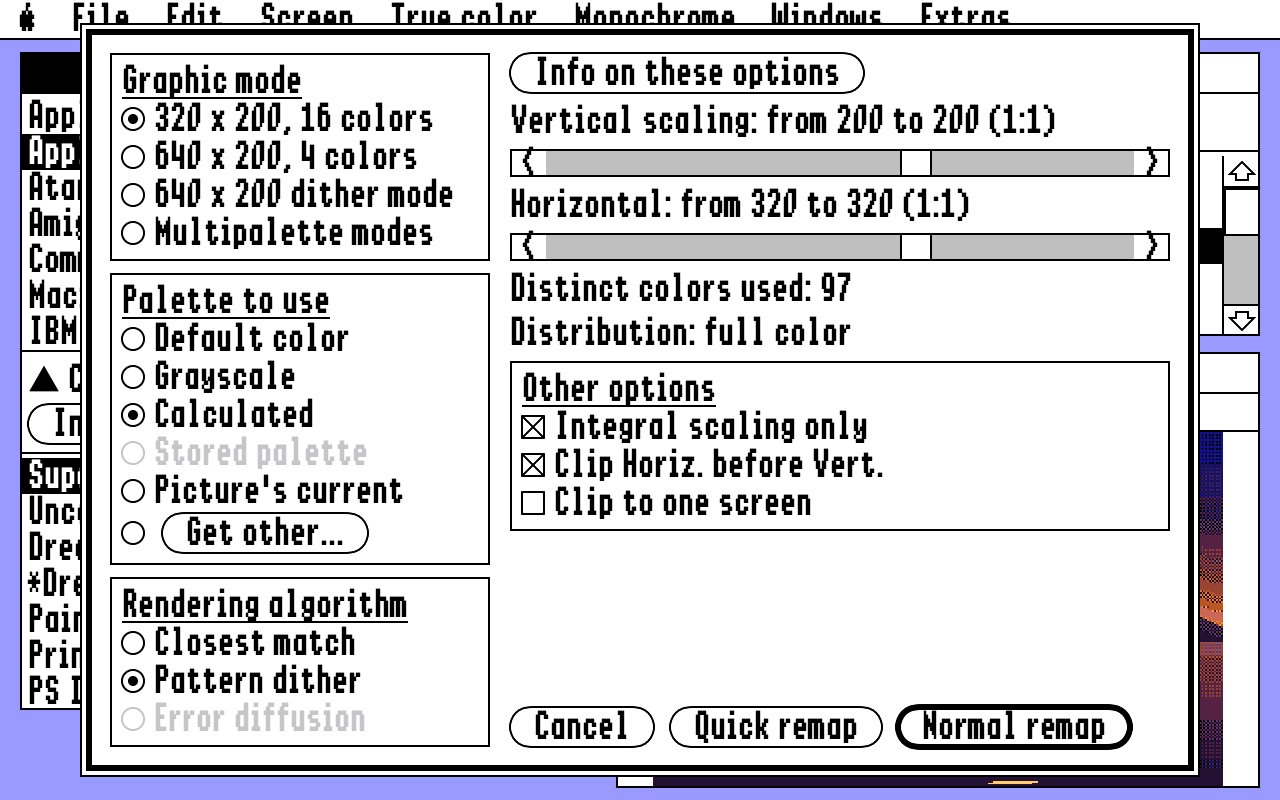
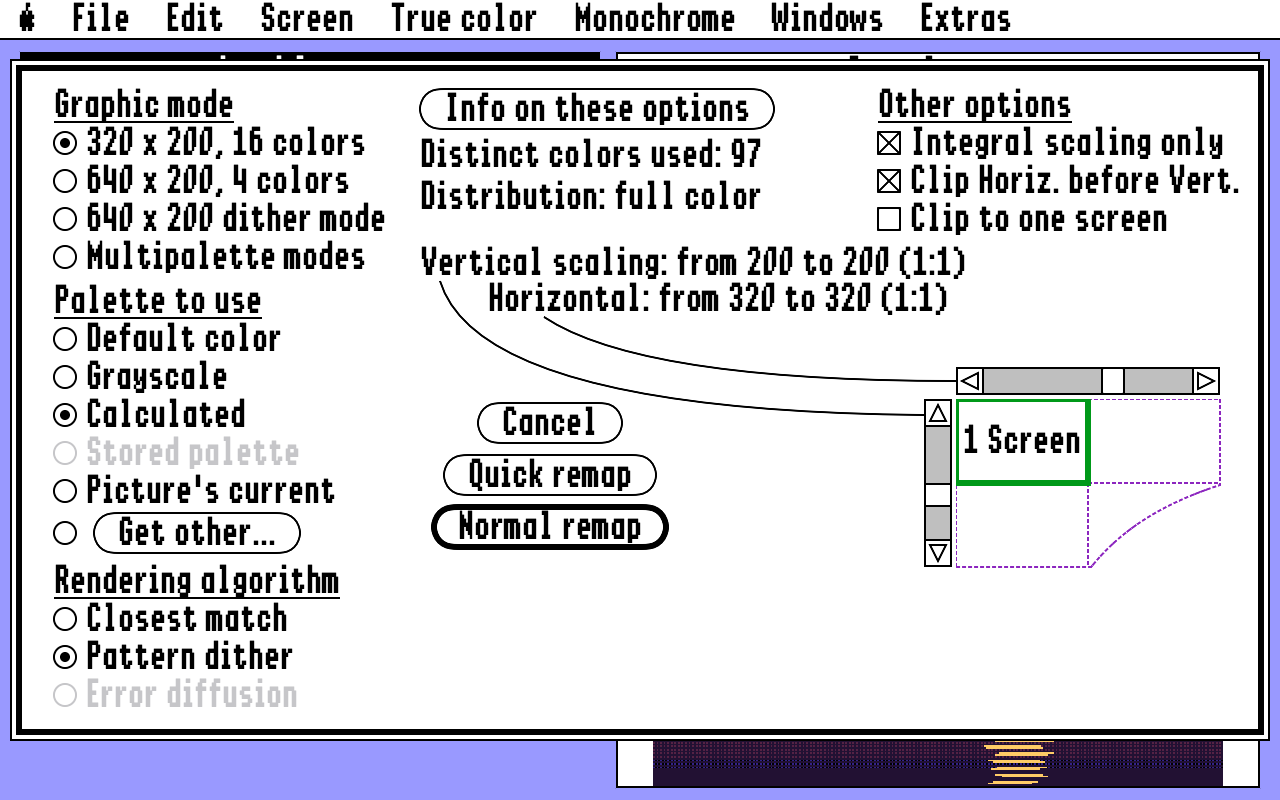
Remap dialog: live size diagram with scroll bars, as in the original
The diagram shows the resulting picture against a grid of screens, with
the 64K limit as a curve and the clipped size as a thick outline.
Pictures are now limited to two screens each way. Screenshots updated.

diff --git a/App/RemapDialog.swift b/App/RemapDialog.swift
@@ -12,121 +12,238 @@ struct RemapDialog: View {
     var body: some View {
         let sizes = model.outputSize()
         let natural = model.trueColor.map { Remapper.naturalSize(of: $0, mode: model.settings.mode) } ?? (0, 0)
+        let screenWidth = Double(model.screenWidth)
         GSDialog {
             HStack(alignment: .top, spacing: 10) {
-                VStack(spacing: 6) {
-                    GSGroup(title: "Graphic mode") {
-                        ForEach(GraphicMode.allCases, id: \.rawValue) { mode in
-                            GSRadio(title: mode.title, selected: model.settings.mode == mode) {
-                                model.settings.mode = mode
-                                model.normalise()
-                                model.fitScaleToScreen()
-                            }
-                        }
-                    }
-                    GSGroup(title: "Palette to use") {
-                        ForEach(PaletteChoice.allCases, id: \.rawValue) { choice in
-                            if choice == .other {
-                                HStack(spacing: 4) {
-                                    GSRadio(title: "", selected: model.settings.palette == .other) {
-                                        model.settings.palette = .other
-                                        model.normalise()
-                                    }
-                                    Button("Get other...") { model.overlay = .getOther }
-                                        .buttonStyle(GSButtonStyle())
-                                }
-                            } else {
-                                GSRadio(title: choice.title, selected: model.settings.palette == choice,
-                                        enabled: model.prototype(for: choice) != nil) {
-                                    model.settings.palette = choice
-                                    model.normalise()
-                                }
-                            }
-                        }
-                    }
-                    GSGroup(title: "Rendering algorithm") {
-                        ForEach(RenderAlgorithm.allCases, id: \.rawValue) { algorithm in
-                            GSRadio(title: algorithm.title, selected: model.settings.algorithm == algorithm,
-                                    enabled: algorithm != .errorDiffusion || model.errorDiffusionAllowed) {
-                                model.settings.algorithm = algorithm
-                            }
-                        }
-                    }
-                }
-                .frame(width: 190)
+                choicesColumn.frame(width: 180)
 
                 VStack(alignment: .leading, spacing: 6) {
-                    Button("Info on these options") {
-                        model.overlay = .info("Remap options", """
-                            Graphic mode picks the IIgs screen mode of the result.
-                            Palette to use picks its colors; Calculated finds the best ones for this picture.
-                            Pattern dither mixes palette colors in small patterns; Error diffusion is \
-                            offered for grayscale and black & white palettes.
-                            Quick remap ignores every option and gives a one-screen preview.
-                            """)
+                    HStack(alignment: .top, spacing: 8) {
+                        VStack(alignment: .leading, spacing: 5) {
+                            Button("Info on these options") {
+                                model.overlay = .info("Remap options", """
+                                    Graphic mode picks the IIgs screen mode of the result. Palette to use picks \
+                                    its colors; Calculated finds the best ones for this picture.
+                                    The two scroll bars set the scaling. The diagram shows the result against \
+                                    a grid of screens: the curve is the 64K size limit, the thin outline is the \
+                                    size you asked for and the thick one is what you get.
+                                    Quick remap ignores every option and gives a one-screen preview.
+                                    """)
+                            }
+                            .buttonStyle(GSButtonStyle())
+                            Group {
+                                if let s = model.statistics {
+                                    Text("Distinct colors used: \(s.distinct)")
+                                    Text("Distribution: \(model.distribution(s))")
+                                } else {
+                                    Text("Counting colors...")
+                                }
+                            }
+                            .font(GS.font).foregroundColor(.black).lineLimit(1)
+                        }
+                        Spacer(minLength: 0)
+                        VStack(alignment: .leading, spacing: 3) {
+                            Text("Other options").font(GS.font).foregroundColor(.black).underline()
+                            GSCheckbox(title: "Integral scaling only", isOn: $model.settings.integral)
+                            GSCheckbox(title: "Clip Horiz. before Vert.", isOn: $model.settings.clipHorizFirst)
+                            GSCheckbox(title: "Clip to one screen", isOn: $model.settings.clipOneScreen)
+                        }
                     }
-                    .buttonStyle(GSButtonStyle())
 
-                    Group {
+                    // Scaling: text, scroll bars and the size diagram, laid out as in the original.
+                    ZStack(alignment: .topLeading) {
                         Text("Vertical scaling: from \(natural.1) to \(sizes.wanted.1) (\(ratio(model.settings.vStep)))")
-                        scaleSlider($model.settings.vStep)
+                            .font(GS.font).foregroundColor(.black).lineLimit(1)
                         Text("Horizontal: from \(natural.0) to \(sizes.wanted.0) (\(ratio(model.settings.hStep)))")
-                        scaleSlider($model.settings.hStep)
+                            .font(GS.font).foregroundColor(.black).lineLimit(1)
+                            .offset(x: 34, y: 18)
+                        // Leader lines from each line of text to its scroll bar.
+                        Path { p in
+                            p.move(to: CGPoint(x: 10, y: 17))
+                            p.addQuadCurve(to: CGPoint(x: Self.gridX - 16, y: Self.gridY + 8),
+                                           control: CGPoint(x: 30, y: Self.gridY + 6))
+                            p.move(to: CGPoint(x: 62, y: 35))
+                            p.addQuadCurve(to: CGPoint(x: Self.gridX, y: Self.gridY - 9),
+                                           control: CGPoint(x: 110, y: Self.gridY - 9))
+                        }
+                        .stroke(Color.black, lineWidth: 1)
+                        VStack(spacing: 6) {
+                            Button("Cancel") { model.overlay = nil }.buttonStyle(GSButtonStyle())
+                            Button("Quick remap") { model.runRemap(quick: true) }.buttonStyle(GSButtonStyle())
+                            Button("Normal remap") { model.runRemap(quick: false) }
+                                .buttonStyle(GSButtonStyle(isDefault: true))
+                                .keyboardShortcut(.defaultAction)
+                        }
+                        .frame(width: 130)
+                        .offset(x: 0, y: 78)
+                        ScaleBar(step: $model.settings.hStep, vertical: false)
+                            .frame(width: SizeDiagram.size.width, height: 14)
+                            .offset(x: Self.gridX, y: Self.gridY - 16)
+                        ScaleBar(step: $model.settings.vStep, vertical: true)
+                            .frame(width: 14, height: SizeDiagram.size.height)
+                            .offset(x: Self.gridX - 16, y: Self.gridY)
+                        SizeDiagram(wanted: CGSize(width: Double(sizes.wanted.0) / screenWidth,
+                                                   height: Double(sizes.wanted.1) / 200),
+                                    result: CGSize(width: Double(sizes.clipped.0) / screenWidth,
+                                                   height: Double(sizes.clipped.1) / 200))
+                            .offset(x: Self.gridX, y: Self.gridY)
                         if sizes.clipped != sizes.wanted {
                             Text("Clipped to \(sizes.clipped.0) x \(sizes.clipped.1)")
-                        }
-                        if let s = model.statistics {
-                            Text("Distinct colors used: \(s.distinct)")
-                            Text("Distribution: \(model.distribution(s))")
-                        } else {
-                            Text("Counting colors...")
+                                .font(GS.font).foregroundColor(.black).lineLimit(1)
+                                .offset(x: 0, y: Self.gridY + SizeDiagram.size.height + 4)
                         }
                     }
-                    .font(GS.font)
-                    .foregroundColor(.black)
-
-                    GSGroup(title: "Other options") {
-                        GSCheckbox(title: "Integral scaling only", isOn: $model.settings.integral)
-                        GSCheckbox(title: "Clip Horiz. before Vert.", isOn: $model.settings.clipHorizFirst)
-                        GSCheckbox(title: "Clip to one screen", isOn: $model.settings.clipOneScreen)
-                    }
-                    Spacer(minLength: 0)
-                    HStack(spacing: 8) {
-                        Button("Cancel") { model.overlay = nil }.buttonStyle(GSButtonStyle())
-                        Button("Quick remap") { model.runRemap(quick: true) }.buttonStyle(GSButtonStyle())
-                        Button("Normal remap") { model.runRemap(quick: false) }
-                            .buttonStyle(GSButtonStyle(isDefault: true))
-                            .keyboardShortcut(.defaultAction)
-                    }
+                    .frame(width: 410, height: Self.gridY + SizeDiagram.size.height + 24, alignment: .topLeading)
                 }
-                .frame(width: 330, alignment: .leading)
+                .frame(width: 410, alignment: .leading)
             }
         }
         .fixedSize()
     }
 
-    /// Stand-in for the original's scroll bars: arrows step through the scale ratios.
-    private func scaleSlider(_ step: Binding<Int>) -> some View {
-        HStack(spacing: 0) {
-            Button("<") { step.wrappedValue = max(0, step.wrappedValue - 1) }.buttonStyle(.plain).frame(width: 18)
-            GeometryReader { geo in
-                ZStack(alignment: .leading) {
-                    Rectangle().fill(Color(white: 0.75))
-                    Rectangle().fill(Color.white).border(Color.black, width: 1).frame(width: 16)
-                        .offset(x: (geo.size.width - 16) * CGFloat(step.wrappedValue) / CGFloat(scaleSteps.count - 1))
+    private static let gridX: CGFloat = 268, gridY: CGFloat = 76
+
+    private var choicesColumn: some View {
+        VStack(alignment: .leading, spacing: 6) {
+            VStack(alignment: .leading, spacing: 3) {
+                Text("Graphic mode").font(GS.font).foregroundColor(.black).underline()
+                ForEach(GraphicMode.allCases, id: \.rawValue) { mode in
+                    GSRadio(title: mode.title, selected: model.settings.mode == mode) {
+                        model.settings.mode = mode
+                        model.normalise()
+                        model.fitScaleToScreen()
+                    }
                 }
-                .contentShape(Rectangle())
-                .gesture(DragGesture(minimumDistance: 0).onChanged { value in
-                    let f = min(1, max(0, value.location.x / geo.size.width))
-                    step.wrappedValue = Int((f * CGFloat(scaleSteps.count - 1)).rounded())
-                })
             }
-            Button(">") { step.wrappedValue = min(scaleSteps.count - 1, step.wrappedValue + 1) }
-                .buttonStyle(.plain).frame(width: 18)
+            VStack(alignment: .leading, spacing: 3) {
+                Text("Palette to use").font(GS.font).foregroundColor(.black).underline()
+                ForEach(PaletteChoice.allCases, id: \.rawValue) { choice in
+                    if choice == .other {
+                        HStack(spacing: 4) {
+                            GSRadio(title: "", selected: model.settings.palette == .other) {
+                                model.settings.palette = .other
+                                model.normalise()
+                            }
+                            Button("Get other...") { model.overlay = .getOther }.buttonStyle(GSButtonStyle())
+                        }
+                    } else {
+                        GSRadio(title: choice.title, selected: model.settings.palette == choice,
+                                enabled: model.prototype(for: choice) != nil) {
+                            model.settings.palette = choice
+                            model.normalise()
+                        }
+                    }
+                }
+            }
+            VStack(alignment: .leading, spacing: 3) {
+                Text("Rendering algorithm").font(GS.font).foregroundColor(.black).underline()
+                ForEach(RenderAlgorithm.allCases, id: \.rawValue) { algorithm in
+                    GSRadio(title: algorithm.title, selected: model.settings.algorithm == algorithm,
+                            enabled: algorithm != .errorDiffusion || model.errorDiffusionAllowed) {
+                        model.settings.algorithm = algorithm
+                    }
+                }
+            }
         }
-        .font(GS.font)
-        .frame(height: 14)
+    }
+}
+
+/// A IIgs scroll bar used as a stepped control: one position per scaling ratio.
+private struct ScaleBar: View {
+    @Binding var step: Int
+    let vertical: Bool
+    private var last: Int { scaleSteps.count - 1 }
+
+    private func arrow(_ forward: Bool) -> some View {
+        Button { step = min(last, max(0, step + (forward ? 1 : -1))) } label: {
+            Path { p in
+                // A triangle pointing along the bar.
+                let tip: CGFloat = forward ? 11 : 3, base: CGFloat = forward ? 3 : 11
+                if vertical {
+                    p.move(to: CGPoint(x: 7, y: tip)); p.addLine(to: CGPoint(x: 3, y: base)); p.addLine(to: CGPoint(x: 11, y: base))
+                } else {
+                    p.move(to: CGPoint(x: tip, y: 7)); p.addLine(to: CGPoint(x: base, y: 3)); p.addLine(to: CGPoint(x: base, y: 11))
+                }
+                p.closeSubpath()
+            }
+            .stroke(Color.black, lineWidth: 1)
+            .frame(width: 14, height: 14)
+            .background(Color.white)
+            .border(Color.black, width: 1)
+        }
+        .buttonStyle(.plain)
+    }
+
+    var body: some View {
+        let track = GeometryReader { geo in
+            let length = vertical ? geo.size.height : geo.size.width
+            let at = (length - 12) * CGFloat(step) / CGFloat(last)
+            ZStack(alignment: .topLeading) {
+                Rectangle().fill(Color(white: 0.75))
+                Rectangle().fill(Color.white).border(Color.black, width: 1)
+                    .frame(width: vertical ? geo.size.width : 12, height: vertical ? 12 : geo.size.height)
+                    .offset(x: vertical ? 0 : at, y: vertical ? at : 0)
+            }
+            .contentShape(Rectangle())
+            .gesture(DragGesture(minimumDistance: 0).onChanged { value in
+                let f = min(1, max(0, (vertical ? value.location.y : value.location.x) / length))
+                step = Int((f * CGFloat(last)).rounded())
+            })
+        }
+        return Group {
+            if vertical {
+                VStack(spacing: 0) { arrow(false); track; arrow(true) }
+            } else {
+                HStack(spacing: 0) { arrow(false); track; arrow(true) }
+            }
+        }
         .border(Color.black, width: 1)
+    }
+}
+
+/// The picture-size diagram: a purple grid two screens wide and two tall, with its lower
+/// right corner cut away by the 64K limit (width x height can't pass about two screenfuls).
+/// Sizes are given in screens. Thin green outline = the size asked for; thick = the result.
+private struct SizeDiagram: View {
+    let wanted: CGSize
+    let result: CGSize
+    static let cell = CGSize(width: 66, height: 42)
+    static let size = CGSize(width: cell.width * 2, height: cell.height * 2)
+    /// 65536 bytes over the 32000 of one screen.
+    private static let limit = 2.048
+
+    private func point(_ x: Double, _ y: Double) -> CGPoint {
+        CGPoint(x: x * Self.cell.width, y: y * Self.cell.height)
+    }
+
+    var body: some View {
+        let purple = Color(red: 0.55, green: 0.15, blue: 0.75)
+        let green = Color(red: 0.0, green: 0.6, blue: 0.1)
+        let edge = Self.limit / 2
+        ZStack(alignment: .topLeading) {
+            Path { p in
+                p.move(to: point(0, 2)); p.addLine(to: point(0, 0)); p.addLine(to: point(2, 0))
+                p.addLine(to: point(2, edge))
+                // The size limit: width x height = constant.
+                var x = 2.0
+                while x > edge {
+                    p.addLine(to: point(x, Self.limit / x))
+                    x -= 0.02
+                }
+                p.addLine(to: point(edge, 2)); p.addLine(to: point(0, 2))
+                p.move(to: point(1, 0)); p.addLine(to: point(1, 2))
+                p.move(to: point(0, 1)); p.addLine(to: point(2, 1))
+            }
+            .stroke(purple, style: StrokeStyle(lineWidth: 1, dash: [2, 1]))
+            Text("1 Screen").font(GS.font).foregroundColor(.black).lineLimit(1)
+                .frame(width: Self.cell.width, height: Self.cell.height)
+            Rectangle().stroke(green, lineWidth: 1)
+                .frame(width: max(2, wanted.width * Self.cell.width), height: max(2, wanted.height * Self.cell.height))
+            Rectangle().stroke(green, lineWidth: 3)
+                .frame(width: max(3, result.width * Self.cell.width), height: max(3, result.height * Self.cell.height))
+        }
+        .frame(width: Self.size.width + 2, height: Self.size.height + 2, alignment: .topLeading)
+        .clipped()
     }
 }
 

diff --git a/App/GSRemapApp.swift b/App/GSRemapApp.swift
@@ -90,6 +90,16 @@ enum Snapshot {
         model.statistics = image.colourStatistics()
         switch demo {
         case "remap": model.overlay = .remap
+        case "remapbig":
+            // A picture too large for the limit: shows the clipped outline.
+            model.trueColor = TrueColorImage(width: 500, height: 320)
+            model.settings.hStep = 14
+            model.settings.vStep = 14
+            model.overlay = .remap
+        case "remapsmall":
+            model.settings.hStep = 9
+            model.settings.vStep = 11
+            model.overlay = .remap
         case "menu": model.openMenu = 4
         case "dither640":
             model.settings.mode = .mode640Dither

diff --git a/App/AppModel.swift b/App/AppModel.swift
@@ -525,7 +525,8 @@ final class AppModel: ObservableObject {
         let natural = Remapper.naturalSize(of: image, mode: settings.mode)
         let (hn, hd) = scaleSteps[settings.hStep], (vn, vd) = scaleSteps[settings.vStep]
         let w = max(1, natural.width * hn / hd), h = max(1, natural.height * vn / vd)
-        var cw = w, ch = h
+        // A screen image can be at most two screens wide and two screens tall.
+        var cw = min(w, screenWidth * 2), ch = min(h, 400)
         if settings.clipOneScreen {
             cw = min(cw, screenWidth)
             ch = min(ch, 200)

diff --git a/README.md b/README.md
@@ -12,9 +12,15 @@ The desktop: Load formats, Save formats and the Image window.
 
 ![The GS Remap desktop](docs/screenshots/desktop.png)
 
-The Remap dialog: graphic mode, palette, rendering algorithm and scaling.
+The Remap dialog: graphic mode, palette, rendering algorithm and scaling. The diagram shows
+the resulting picture against a grid of screens; the curve is the 64K size limit.
 
 ![Remap dialog](docs/screenshots/remap.png)
+
+A picture too large for the limit: the thin outline is the size asked for, the thick one is
+what you get.
+
+![Remap dialog with a clipped picture](docs/screenshots/remap-clipped.png)
 
 A picture remapped to 640 x 200 dither mode with the default palette.
 
